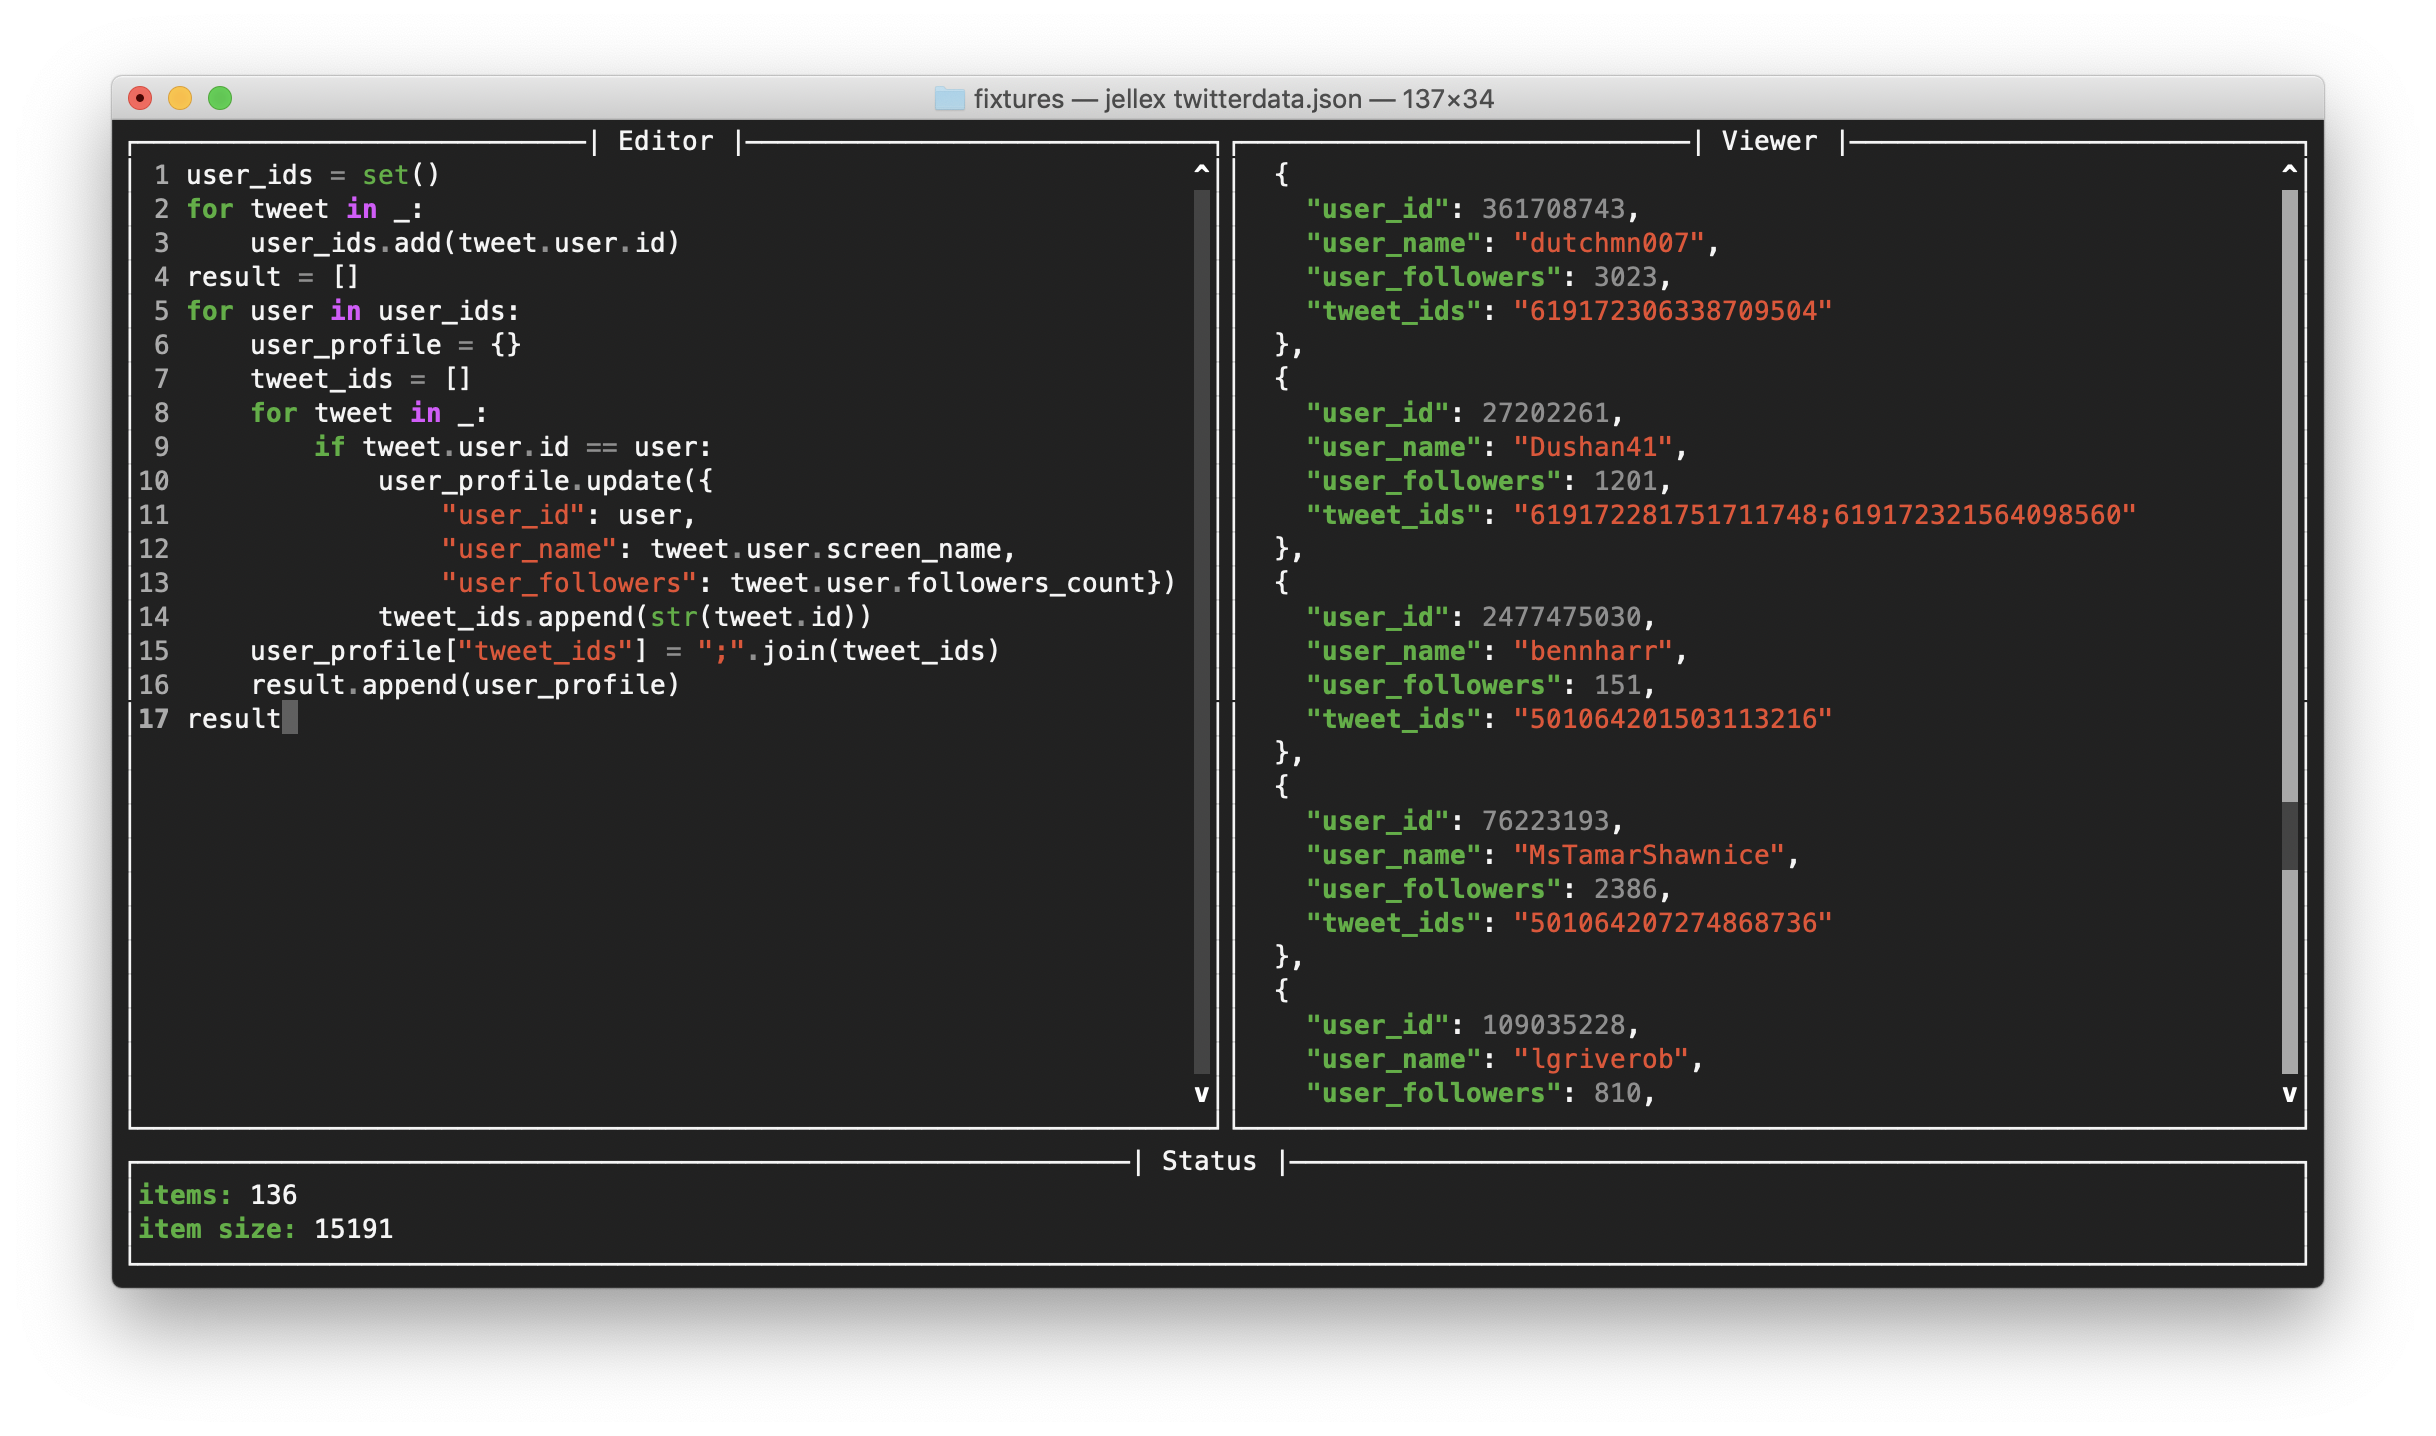
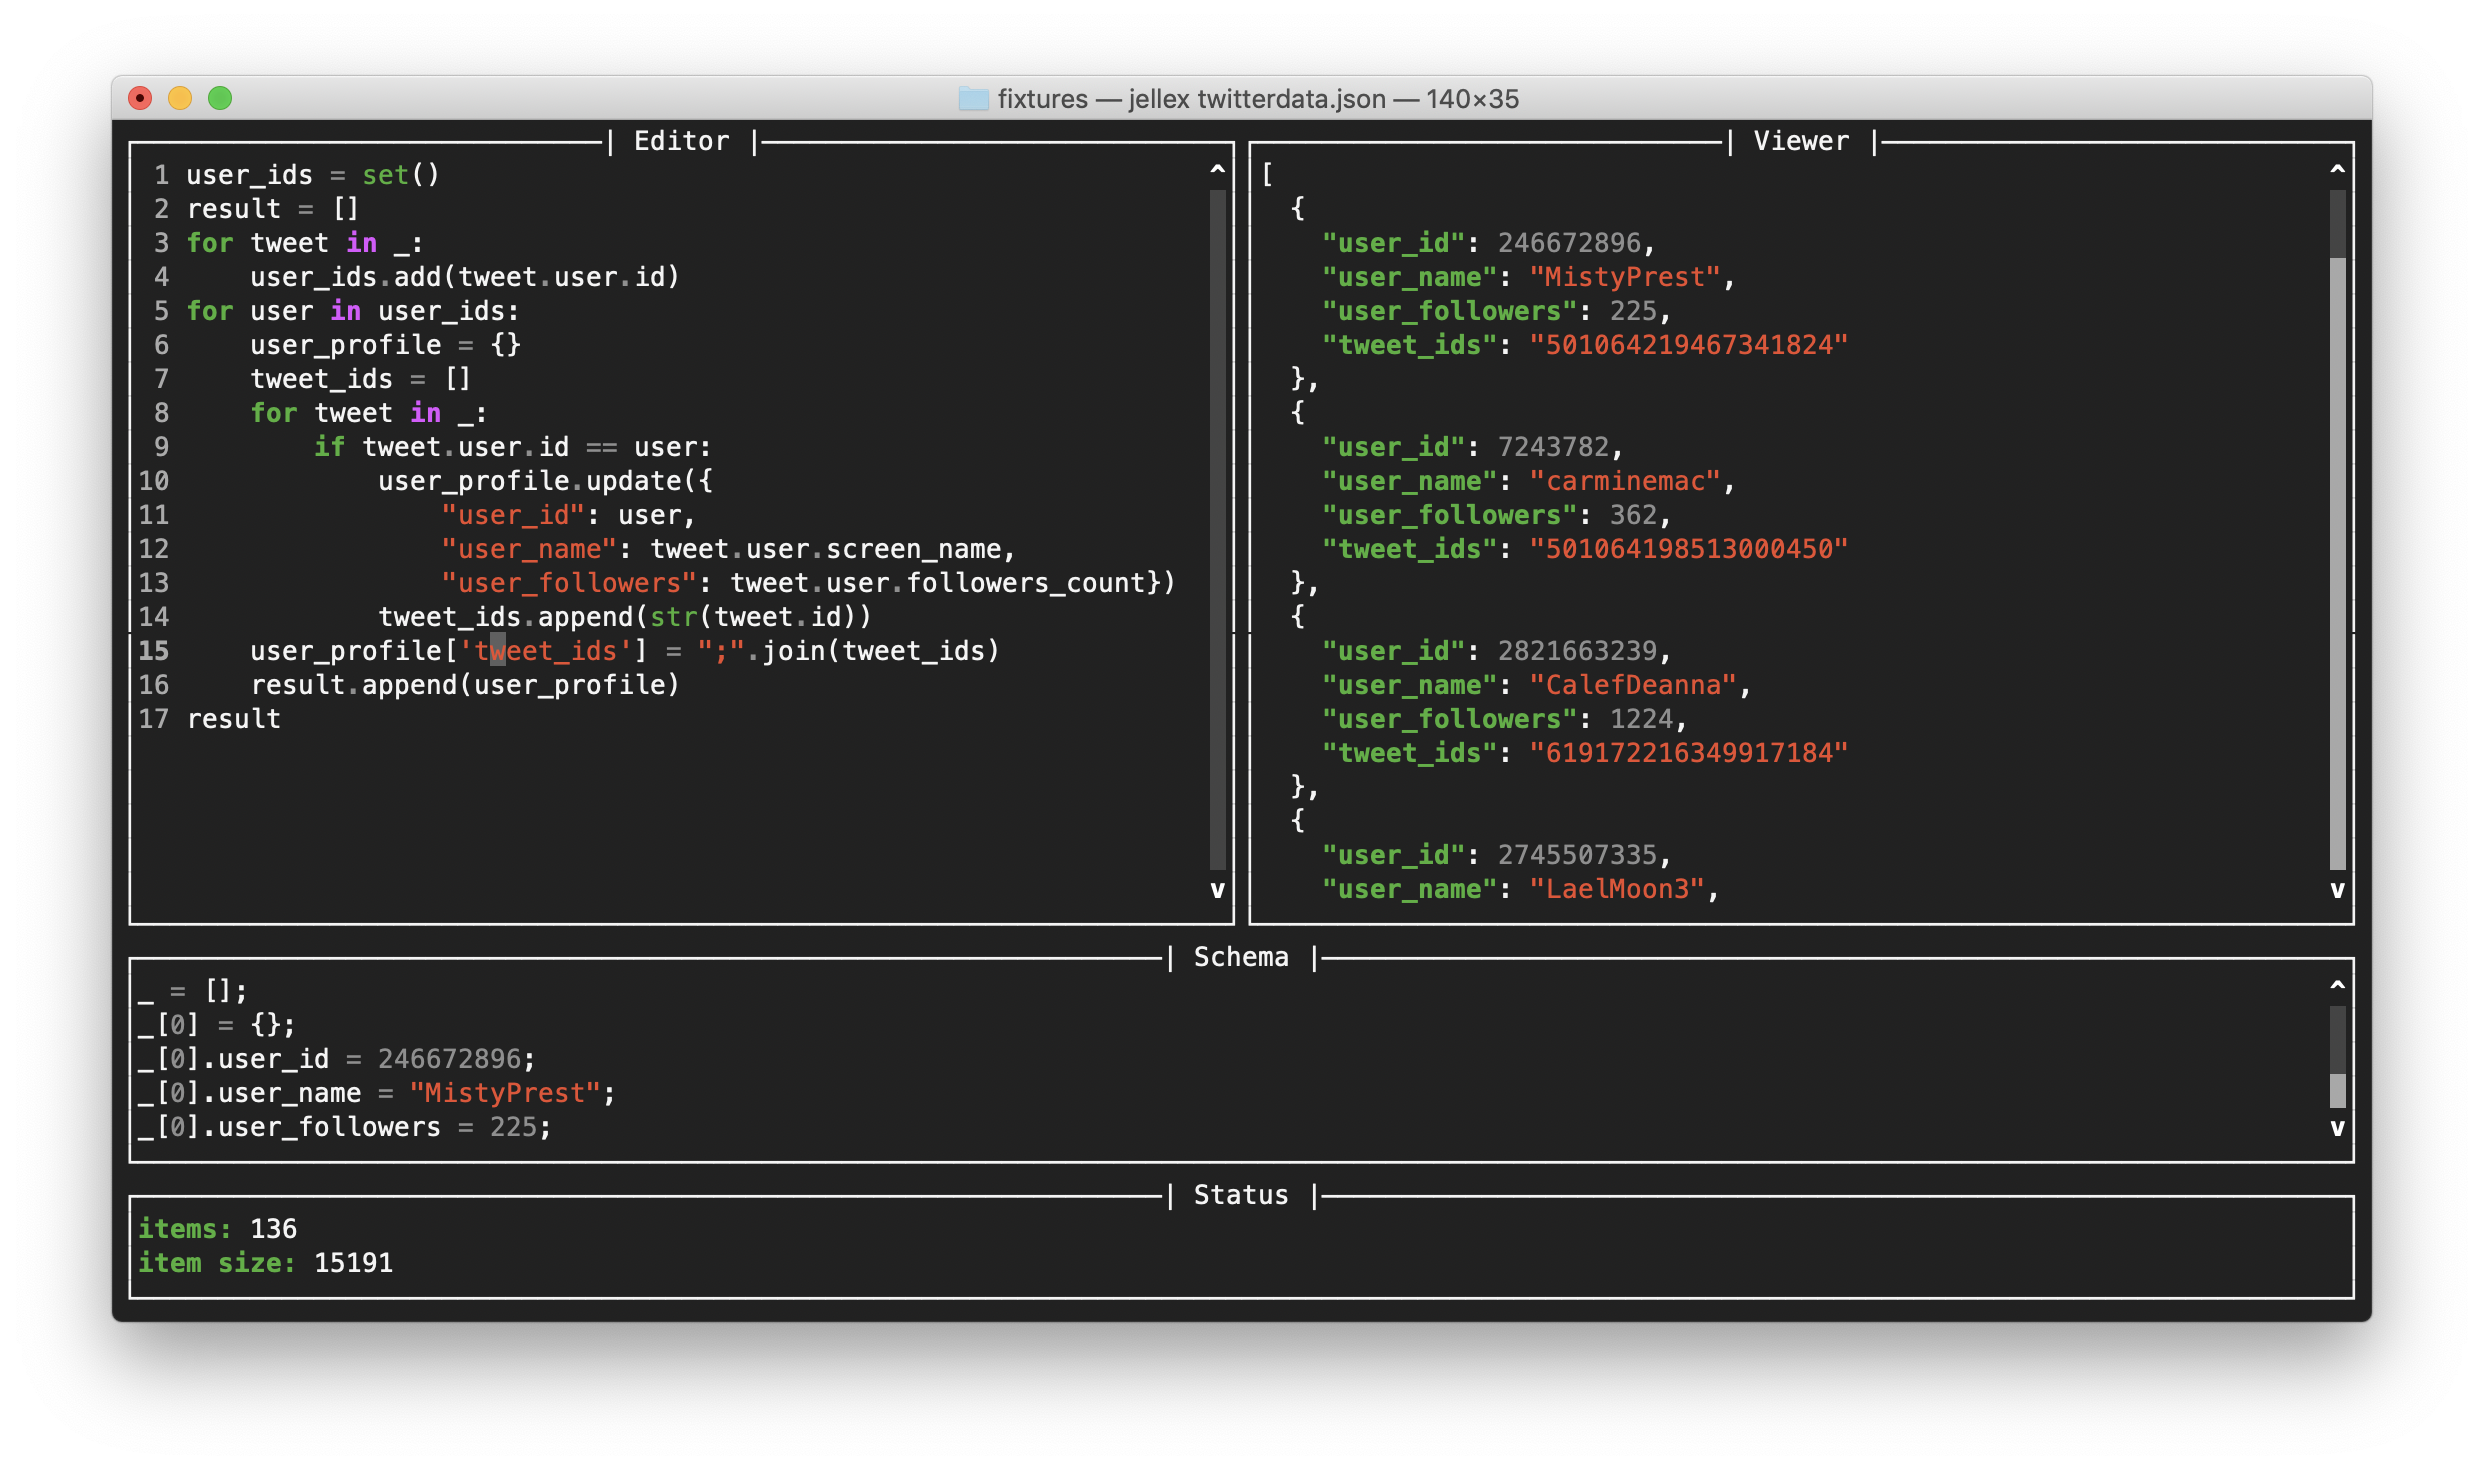
doc update

Changed region(s): [[0.0312, 0.0613, 0.9672, 0.8886]]

diff --git a/setup.py b/setup.py
@@ -5,7 +5,7 @@ with open('README.md', 'r') as f:
 
 setuptools.setup(
     name='jellex',
-    version='0.4.0',
+    version='0.5.0',
     author='Kelly Brazil',
     author_email='kellyjonbrazil@gmail.com',
     description='TUI Jello Explorer - filter JSON and JSON Lines data with Python syntax.',

diff --git a/jellex/__init__.py b/jellex/__init__.py
@@ -1,7 +1,7 @@
 """jellex - TUI to query JSON at the command line with python syntax"""
 
 
-__version__ = '0.4.0'
+__version__ = '0.5.0'
 AUTHOR = 'Kelly Brazil'
 WEBSITE = 'https://github.com/kellyjonbrazil/jellex'
 COPYRIGHT = '© 2021 Kelly Brazil'

diff --git a/README.md b/README.md
@@ -19,7 +19,7 @@ pip install jellex
 ```
 jellex file.json
 ```
-An Editor window displays on the left, a Viewer window displays on the right, and a Status window displays on the bottom.
+An Editor window displays on the left, a Viewer window displays on the right. Schema and Status windows display on the bottom.
 
 The Editor window uses standard EMACS key bindings and allows you to type your Python syntax query. `_` is the sanitized JSON from the file presented as a python dict or list of dicts. You can use dot notation or traditional python bracket notation to access key names.
 
@@ -35,40 +35,8 @@ Use `CTRL-Q` or `CTRL-C`to exit.
 
 Here is an example after running `jellex twitterdata.json` and modifying the query:
 
-```python
-┌────────────────| Editor |────────────────┐┌───────────────| Viewer |────────────────┐
-│ 1 _[0].user                             ^││{                                       ^│
-│                                          ││  "follow_request_sent": false,          │
-│                                          ││  "has_extended_profile": false,         │
-│                                          ││  "profile_use_background_image": true,  │
-│                                          ││  "default_profile_image": false,        │
-│                                          ││  "id": 851336634,                       │
-│                                          ││  "profile_background_image_url_https":  │
-│                                          ││  "verified": true,                      │
-│                                          ││  "profile_text_color": "333333",        │
-│                                          ││  "profile_image_url_https": "https://pb │
-│                                          ││  "profile_sidebar_fill_color": "DDEEF6" │
-│                                          ││  "entities": {                          │
-│                                          ││    "url": {                             │
-│                                          ││      "urls": [                          │
-│                                          ││        {                                │
-│                                          ││          "url": "http://t.co/fvHMZhwmP4 │
-│                                          ││          "indices": [                   │
-│                                          ││            0,                           │
-│                                          ││            22                           │
-│                                          ││          ],                             │
-│                                          ││          "expanded_url": "http://www.20 │
-│                                          ││          "display_url": "20minutos.com" │
-│                                          ││        }                                │
-│                                          ││      ]                                  │
-│                                          ││    },                                   │
-│                                          ││    "description": {                     │
-│                                         v││      "urls": [                         v│
-└──────────────────────────────────────────┘└─────────────────────────────────────────┘
-┌─────────────────────────────────────| Status |──────────────────────────────────────┐
-│items: 41                                                                            │
-│item size: 2054                                                                      │
-└─────────────────────────────────────────────────────────────────────────────────────┘
+![jellex](https://github.com/kellyjonbrazil/jellex/raw/master/_images/jellex-twitterdata.png)
+
 ```
 When you exit (`CTRL-Q` or `CTRL-C`), you will be presented with your `jello` filter:
 ```
